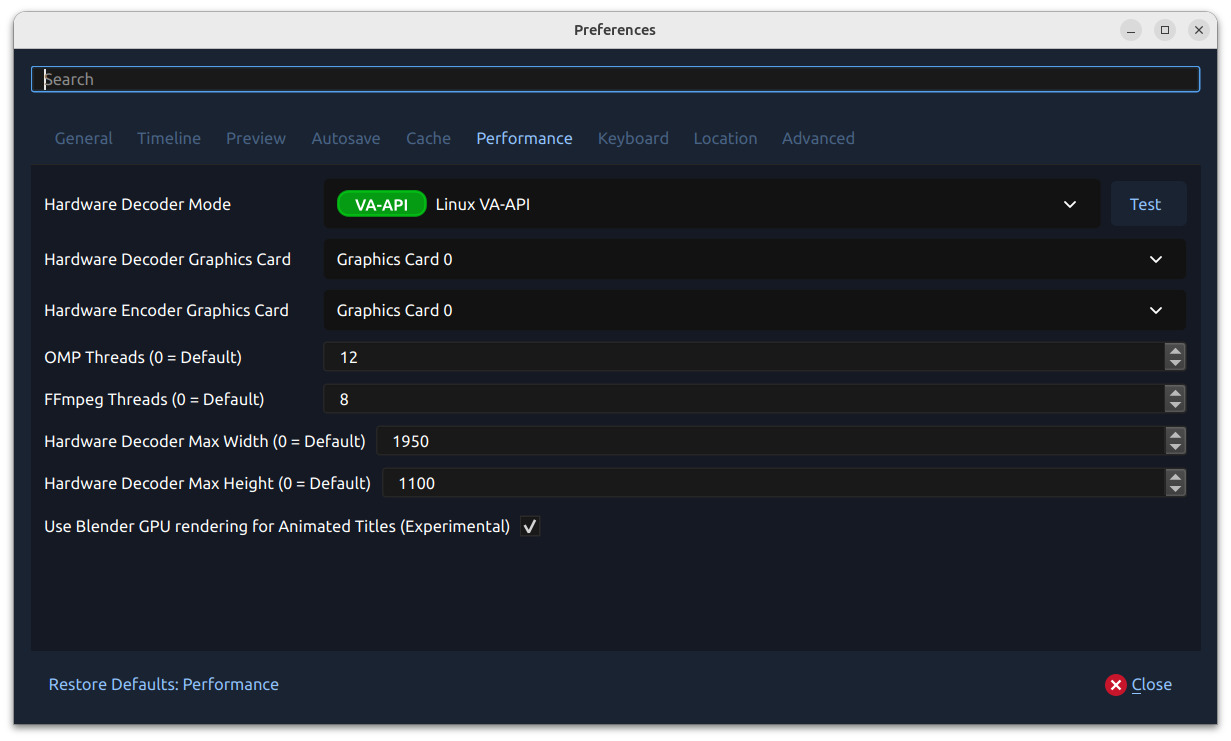
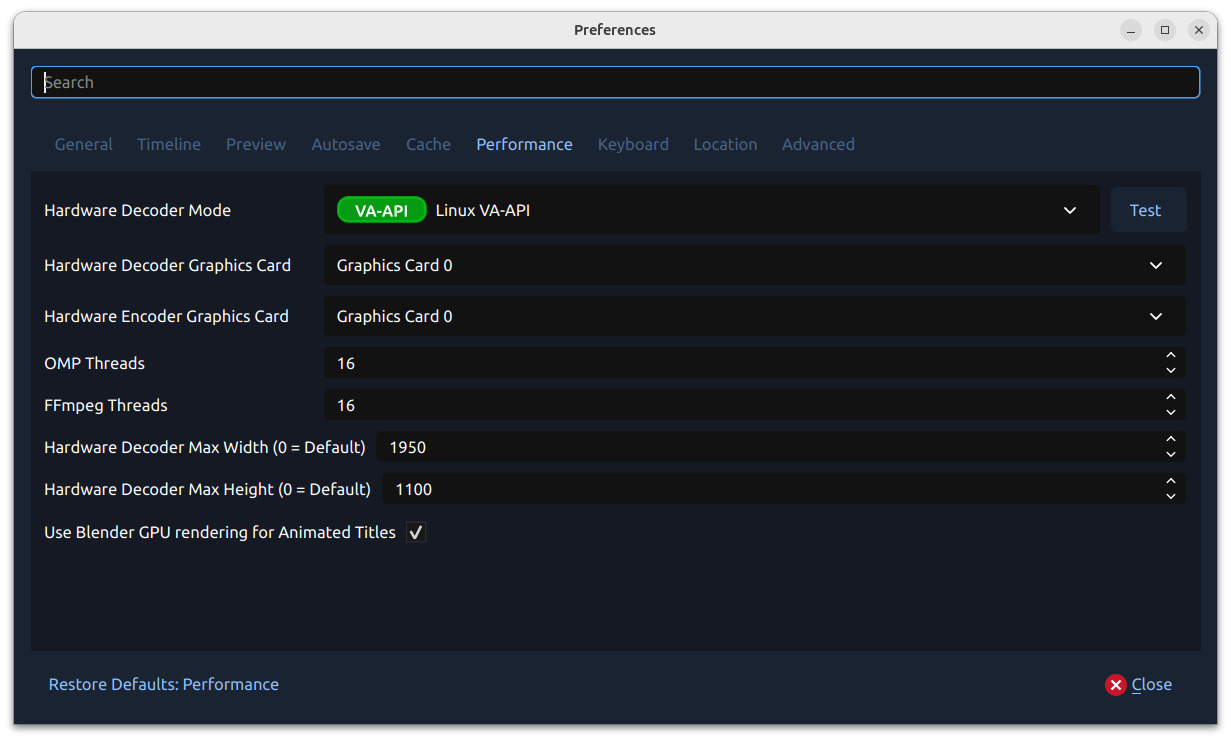
Merge pull request #6034 from OpenShot/updated-docs-may-7-2026
Misc Updates to Docs

Pull request: Misc Updates to Docs
- Updated clip docs: sorted Clip Properties and added Waveform Mode.
- Updated effects docs: sorted the Effects list to match OpenShot and added common mask properties.
- Updated transition docs: added mask properties and descriptions.
- Replaced Preferences Timeline and Performance screenshots with native JPEG versions from the new captures.
- Verified docs with make html; build succeeds.

diff --git a/doc/effects.rst b/doc/effects.rst
@@ -258,11 +258,11 @@ the name and short description of each effect.
    =========================== ============================= ===============
    Icon                        Effect Name                   Effect Description
    =========================== ============================= ===============
-   |analogtape_icon|           Analog Tape                   Vintage home-video wobble, bleed, and snow.
    |mask_icon|                 Alpha Mask / Wipe Transition  Grayscale mask transition between images.
+   |analogtape_icon|           Analog Tape                   Vintage home-video wobble, bleed, and snow.
    |audiovisualization_icon|   Audio Visualization           Render waveform, spectrum, and other transparent audio visualizations.
-   |beatsync_icon|             Beat Sync                     Generate audio-reactive color flashes for compositing.
    |bars_icon|                 Bars                          Add colored bars around your video.
+   |beatsync_icon|             Beat Sync                     Generate audio-reactive color flashes for compositing.
    |blur_icon|                 Blur                          Adjust image blur.
    |brightness_icon|           Brightness & Contrast         Modify frame’s brightness and contrast.
    |caption_icon|              Caption                       Add text captions to any clip.
@@ -271,33 +271,33 @@ the name and short description of each effect.
    |colormap_icon|             Color Map / Lookup            Adjust colors using 3D LUT lookup tables (.cube format).
    |saturation_icon|           Color Saturation              Adjust color intensity.
    |colorshift_icon|           Color Shift                   Shift image colors in various directions.
+   |compressor_icon|           Compressor                    Reduce loudness or amplify quiet sounds.
    |crop_icon|                 Crop                          Crop out parts of your video.
    |deinterlace_icon|          Deinterlace                   Remove interlacing from video.
+   |delay_icon|                Delay                         Adjust audio-video synchronism.
    |denoiseimage_icon|         Denoise Image                 Reduce visible grain and color speckles in video frames.
    |displace_icon|             Displacement Map              Use a grayscale image or video to warp the frame.
+   |distortion_icon|           Distortion                    Clip audio signal for distortion.
+   |echo_icon|                 Echo                          Add delayed sound reflection.
+   |expander_icon|             Expander                      Make loud parts relatively louder.
    |filmgrain_icon|            Film Grain                    Add natural film-inspired texture and motion.
    |glow_icon|                 Glow                          Add a soft outer or inner glow to visible pixels.
    |hue_icon|                  Hue                           Adjust hue / color.
    |lensflare_icon|            Lens Flare                    Simulate sunlight hitting a lens with flares.
    |negate_icon|               Negative                      Produce a negative image.
+   |noise_icon|                Noise                         Add random equal-intensity signals.
    |objectdetection_icon|      Object Detector               Detect objects in video.
    |outline_icon|              Outline                       Add outline around any image or text.
+   |parametriceq_icon|         Parametric EQ                 Adjust frequency volume in audio.
    |pixelate_icon|             Pixelate                      Increase or decrease visible pixels.
-   |sharpen_icon|              Sharpen                       Boost edge contrast to make video details look crisper.
+   |robotization_icon|         Robotization                  Transform audio into robotic voice.
    |shadow_icon|               Shadow                        Add a soft drop shadow behind visible pixels.
+   |sharpen_icon|              Sharpen                       Boost edge contrast to make video details look crisper.
    |shift_icon|                Shift                         Shift image in different directions.
    |sphericalprojection_icon|  Spherical Projection          Flatten or project 360° and fisheye footage.
    |stabilizer_icon|           Stabilizer                    Reduce video shake.
    |tracker_icon|              Tracker                       Track bounding box in video.
    |wave_icon|                 Wave                          Distort image into a wave pattern.
-   |compressor_icon|           Compressor                    Reduce loudness or amplify quiet sounds.
-   |delay_icon|                Delay                         Adjust audio-video synchronism.
-   |distortion_icon|           Distortion                    Clip audio signal for distortion.
-   |echo_icon|                 Echo                          Add delayed sound reflection.
-   |expander_icon|             Expander                      Make loud parts relatively louder.
-   |noise_icon|                Noise                         Add random equal-intensity signals.
-   |parametriceq_icon|         Parametric EQ                 Adjust frequency volume in audio.
-   |robotization_icon|         Robotization                  Transform audio into robotic voice.
    |whisperization_icon|       Whisperization                Transform audio into whispers.
    =========================== ============================= ===============
 
@@ -319,14 +319,19 @@ more information on individual effects and their unique properties.
    ======================  ==========  ============
    Effect Property Name    Type        Description
    ======================  ==========  ============
+   Apply Before Clip       Boolean     Apply this effect before the Clip processes keyframes? (default is Yes)
    Duration                Float       The length of the effect (in seconds). Read-only property. Most effects default to the length of a clip. This property is hidden when an effect belongs to a clip.
    End                     Float       The end trimming position of the effect (in seconds). This property is hidden when an effect belongs to a clip.
    ID                      String      A randomly generated GUID (globally unique identifier) assigned to each effect. Read-only property.
+   Mask: Invert            Bool        Invert the mask source so light areas become dark and dark areas become light.
+   Mask: Loop              Bool        Loop an animated mask source when the effect is longer than the source.
+   Mask Mode               Enum        Controls how the mask limits or varies the strength of the effect.
+   Mask: Source            Reader      The image, image sequence, or video used as the effect's grayscale mask source.
+   Mask: Time Mode         Enum        Controls how OpenShot maps effect time to an animated mask source.
    Parent                  String      The parent object to this effect, which makes many of these keyframe values initialize to the parent value.
    Position                Float       The position of the effect on the timeline (in seconds). This property is hidden when an effect belongs to a clip.
    Start                   Float       The start trimming position of the effect (in seconds). This property is hidden when an effect belongs to a clip.
    Track                   Int         The layer which holds the effect (higher tracks are rendered on top of lower tracks). This property is hidden when an effect belongs to a clip.
-   Apply Before Clip       Boolean     Apply this effect before the Clip processes keyframes? (default is Yes)
    ======================  ==========  ============
 
 Duration
@@ -347,6 +352,13 @@ ID
 ""
 The :guilabel:`ID` property holds a randomly generated GUID (Globally Unique Identifier) assigned to each effect,
 ensuring its uniqueness. This is a Read-only property, and assigned by OpenShot when an effect is created.
+
+Mask Properties
+"""""""""""""""
+The :guilabel:`Mask: Source`, :guilabel:`Mask Mode`, :guilabel:`Mask: Time Mode`, :guilabel:`Mask: Loop`, and
+:guilabel:`Mask: Invert` properties limit where an effect is applied. The mask source can be a static image, image
+sequence, or video. Light areas of the mask usually apply more of the effect, while dark areas apply less; use
+:guilabel:`Mask: Invert` when you need the opposite result.
 
 Track
 """""

diff --git a/doc/clips.rst b/doc/clips.rst
@@ -569,18 +569,16 @@ See the table below for a full list of clip properties.
    Alpha                   Key-Frame   Curve representing the alpha for fading the image and adding transparency (1 to 0)
    Channel Filter          Key-Frame   A number representing an audio channel to filter (clears all other channels)
    Channel Mapping         Key-Frame   A number representing an audio channel to output (only works when filtering a channel)
-   Frame Number            Enum        The format to display the frame number (if any)
    Composite (Blend Mode)  Enum        The blend mode used to composite this clip into lower layers. Default is **Normal**. See :ref:`clip_composite_ref`.
    Duration                Float       The length of the clip (in seconds). Read-only property. This is calculated by: End - Start.
-   End                     Float       The end trimming position of the clip (in seconds)
-   Gravity                 Enum        The gravity of a clip determines where it snaps to its parent (details below)
    Enable Audio            Enum        An optional override to determine if this clip has audio (-1=undefined, 0=no, 1=yes)
    Enable Video            Enum        An optional override to determine if this clip has video (-1=undefined, 0=no, 1=yes)
+   End                     Float       The end trimming position of the clip (in seconds)
+   Frame Number            Enum        The format to display the frame number (if any)
+   Gravity                 Enum        The gravity of a clip determines where it snaps to its parent (details below)
    ID                      String      A randomly generated GUID (globally unique identifier) assigned to each clip. Read-only property.
-   Track                   Int         The layer which holds the clip (higher tracks are rendered on top of lower tracks)
    Location X              Key-Frame   Curve representing the relative X position in percent based on the gravity (-1 to 1)
    Location Y              Key-Frame   Curve representing the relative Y position in percent based on the gravity (-1 to 1)
-   Volume Mixing           Enum        The volume mixing choices control how volume is adjusted before mixing (None=don't adjust volume of this clip, Reduce=lower the volume to 80%, Average=divide volume based on # of concurrent clips, details below)
    Origin X                Key-Frame   Curve representing the rotation origin point, X position in percent (-1 to 1)
    Origin Y                Key-Frame   Curve representing the rotation origin point, Y position in percent (-1 to 1)
    Parent                  String      The parent object to this clip, which makes many of these keyframe values initialize to the parent value
@@ -593,9 +591,12 @@ See the table below for a full list of clip properties.
    Shear Y                 Key-Frame   Curve representing Y shear angle in degrees (-45.0=down, 45.0=up)
    Start                   Float       The start trimming position of the clip (in seconds)
    Time                    Key-Frame   Curve representing the frames over time to play (used for speed and direction of video)
+   Track                   Int         The layer which holds the clip (higher tracks are rendered on top of lower tracks)
    Volume                  Key-Frame   Curve representing the volume for fading audio quieter/louder, mute, or adjusting levels (0 to 1)
+   Volume Mixing           Enum        The volume mixing choices control how volume is adjusted before mixing (None=don't adjust volume of this clip, Reduce=lower the volume to 80%, Average=divide volume based on # of concurrent clips, details below)
    Wave Color              Key-Frame   Curve representing the color of the audio waveform
    Waveform                Bool        Should a waveform be used instead of the clip's image
+   Waveform Mode           Enum        The visualization style used when displaying the clip as an audio waveform
    ======================  ==========  ============
 
 .. _clip_composite_ref:
@@ -907,6 +908,15 @@ The :guilabel:`Waveform` property is a boolean that determines whether a wavefor
 
 - **Usage Example:** Displaying an audio waveform in place of the video for visually highlighting audio patterns.
 - **Tip:** Use waveform visualization for emphasizing music beats or voice modulations.
+
+Waveform Mode
+"""""""""""""
+The :guilabel:`Waveform Mode` property controls the visualization style used when :guilabel:`Waveform` is enabled.
+It uses the same choices as the :guilabel:`Visualization` property on the :guilabel:`Audio Visualization` effect:
+Waveform, Filled Waveform, Bars, Radial, Radial Bars, Spectrum, Phase Scope, Particles, and VU Meter.
+
+- **Usage Example:** Switching an audio-only clip from a standard waveform to bars or a spectrum display.
+- **Tip:** Use :guilabel:`Wave Color` with :guilabel:`Waveform Mode` to tune both the visualization style and color.
 
 More Information
 ----------------

diff --git a/doc/transitions.rst b/doc/transitions.rst
@@ -109,6 +109,10 @@ audio volume of a clip, you must adjust the ``volume`` clip property. See :ref:`
    Duration                    Float       The length of the transition (in seconds). Read-only property.
    End                         Float       The end trimming position of the transition (in seconds).
    ID                          String      A randomly generated GUID (globally unique identifier) assigned to each transition. Read-only property.
+   Mask: Invert                Bool        Invert the mask source so light areas become dark and dark areas become light.
+   Mask: Loop                  Bool        Loop an animated mask source when the transition is longer than the source.
+   Mask: Source                Reader      The image, image sequence, or video used as the transition's grayscale mask source.
+   Mask: Time Mode             Enum        Controls how OpenShot maps transition time to an animated mask source.
    Parent                      String      The parent object to this transition, which makes many of these keyframe values initialize to the parent value.
    Position                    Float       The position of the transition on the timeline (in seconds).
    Replace Image               Bool        For debugging a problem, this property displays the transition image (instead of becoming a transparency).
@@ -139,6 +143,16 @@ ensuring its uniqueness. This is a Read-only property, and assigned by OpenShot 
 
 - **Usage Example:** Referencing specific transitions within custom scripts or automation tasks.
 - **Tip:** While typically managed behind the scenes, understanding transition IDs can aid in advanced project customization.
+
+Mask Properties
+"""""""""""""""
+The :guilabel:`Mask: Source`, :guilabel:`Mask: Time Mode`, :guilabel:`Mask: Loop`, and :guilabel:`Mask: Invert`
+properties control the grayscale mask used by a transition. Static masks use a single image. Animated masks can use
+video or image sequences, with time mapping and looping options determining which source frame is used at each point
+in the transition.
+
+- **Usage Example:** Use :guilabel:`Mask: Invert` when the visible and hidden areas of a custom mask are reversed.
+- **Tip:** When using an animated mask, trim the mask source carefully before enabling loop behavior.
 
 Track
 """""